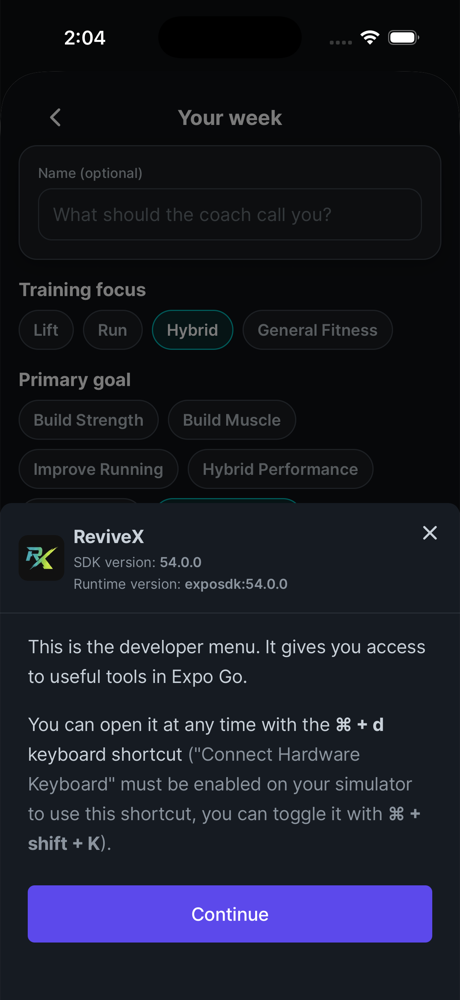
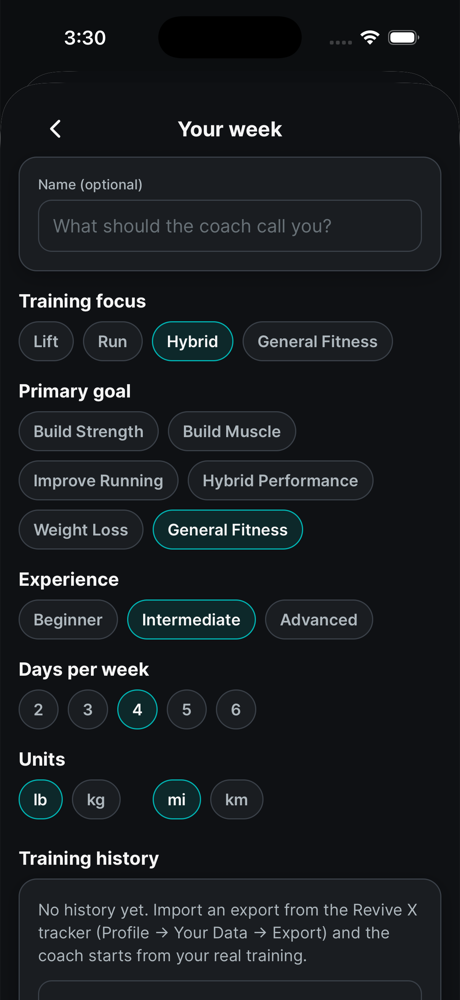
Mac run report
Third run, 2026-10-13: step 1 checks pass with the expected counts,
Direction A opens in Expo Go without the NitroModules error, and the
Direction B screenshots show the full screens.

diff --git a/docs/mac-run-report.md b/docs/mac-run-report.md
@@ -750,3 +750,164 @@ All six images were visually inspected. Direction B font/layout checks are limit
 No real Supabase test accounts were created. The two passing mock sync tests used only the local stand-in. Supabase credentials remain requested; phone testing is explicitly on hold.
 
 All verification servers stopped; listener check found nothing on ports 8081, 8082, 4311, 4312, or 54329. Expo-generated app-level `.gitignore` files were removed only in the new clone after confirming they contained solely the generated `expo-env.d.ts` block already covered by the root ignore file. The Desktop clone was not cleaned or modified. Only this report and screenshots are included in the report commit.
+
+
+## Third run — 2026-10-13
+
+Clone: `/Users/geo/Developer/revivex-app`, branch `claude/two-directions`, tested commit `b15328b9b895182c285d0db4456d9c33feaa1cfc`. Run by Claude Code on the Mac mini in a Remote Control session. The owner asked for steps 0 to 2, left step 3 to the cloud session and held step 4.
+
+Environment: macOS 26.6.2 (25G83), Node v26.4.0, npm 11.17.0, Xcode 26.6 (17F113), iPhone 17 simulator on iOS 26.5 with Expo Go 54.0.7 (installed by hand in run 2). The Mac's screen was locked for the whole run. No code changes, dependency upgrades, EAS builds or pull requests.
+
+### Outcome
+
+- Every step 1 check passed with the expected counts.
+- Direction A opens in Expo Go with no red error screen. The NitroModules error from run 2 is gone (fix `a18574f`).
+- Direction B's Today, Check-in and Settings screenshots show the full screens this time. Expo Go's tutorial still covers the lower half of the screen on a normal open; a launch argument kept it away (see "Expo Go tutorial").
+- One environment failure: `expo start --ios` exits about two minutes after it opens the app, because a System Events query times out while the Mac is locked. The app has loaded by then. Starting the server without `--ios` and opening the app with `xcrun simctl openurl` avoids it.
+
+### Results
+
+| Step | Command | Result | Notes |
+| --- | --- | --- | --- |
+| 0 | `git status --short`; `git pull --ff-only origin claude/two-directions` | pass | Clean tree; already up to date at `b15328b`. |
+| 0 | `watchman watch-del-all`; `node --version` | pass | Watch on this clone removed; Node v26.4.0. |
+| 1 | `npm ci` | pass | 808 packages added; audit reports 48 vulnerabilities (17 moderate, 30 high, 1 critical). No audit fix or upgrades. npm printed an install-script notice, quoted under "Notes for the cloud session". |
+| 1 | `npm run typecheck` | pass | All seven workspaces, no errors. |
+| 1 | `npm test` | pass | 20 (direction-a), 80 (backend), 67 (coach), 79 (core) and 19 (Strava functions) checks passed, 265 in all; 0 failed. |
+| 1 | `npm run test:db` | pass | 73 passed, 0 failed. |
+| 1 | `(cd apps/direction-a && npx expo-doctor)` | pass | 18/18. |
+| 1 | `(cd apps/direction-b && npx expo-doctor)` | pass | 18/18. |
+| 1 | `npx playwright install chromium` | skipped | Owner's instruction; Chrome fallback used. |
+| 1 | `PLAYWRIGHT_CHROMIUM="/Applications/Google Chrome.app/Contents/MacOS/Google Chrome" npm run e2e:full` | pass | 7 passed, 2 live tests skipped. Both web exports built. |
+| 1 | `PLAYWRIGHT_CHROMIUM="/Applications/Google Chrome.app/Contents/MacOS/Google Chrome" npm run e2e:mock` | pass | 2 passed against the local stand-in. |
+| 1 | `(cd apps/direction-a && npx expo export --platform ios --output-dir /tmp/revivex-export-a)` | pass | Bundled; 6.15 MB Hermes bundle. |
+| 1 | `(cd apps/direction-b && npx expo export --platform ios --output-dir /tmp/revivex-export-b)` | pass | Bundled; 4.15 MB Hermes bundle. |
+| 2 | `xcrun simctl list devices available` | pass | iPhone 17 already booted with Expo Go 54.0.7. Expo CLI did not try to download Expo Go. |
+| 2 | Direction A: `npx expo start --ios --port 8081 --clear`, app opens | pass | Bundled 1770 modules. Onboarding page 1 of 6 rendered, no red error screen, no `ERROR` line in the Metro log. |
+| 2 | Same command, server stays up | fail | Expo CLI exited with code 7 about two minutes later on an `osascript` timeout. Environment, not app code. Details below. |
+| 2 | Direction A again: `npx expo start --port 8081 --clear`, Expo Go relaunched with the tutorial argument, `xcrun simctl openurl booted "exp://127.0.0.1:8081"` | pass | Second launch, also clean: onboarding with no red error screen and no tutorial; no errors in the Metro log. |
+| 2 | Direction B: `npx expo start --port 8082 --clear`, then `xcrun simctl openurl booted "exp://127.0.0.1:8082"` | pass | Started without `--ios` because of the failure above. Bundled 1589 modules; no errors in the Metro log. |
+| 2 | Direction B Today, Check-in and Settings screenshots | pass | Full screens visible, nothing wrong found. Checked as first rendered only; no tapping or scrolling. |
+| 3 | `npm run e2e:live` | skipped | Owner's instruction; the cloud session runs it. No `.env.local` files written. |
+| 4 | Phone session | skipped | Held until the owner asks. No tunnel started. |
+
+### Expo Doctor output (verbatim)
+
+Direction A: `(cd apps/direction-a && npx expo-doctor)`
+
+```text
+Running 18 checks on your project...
+18/18 checks passed. No issues detected!
+```
+
+Direction B: `(cd apps/direction-b && npx expo-doctor)`
+
+```text
+Running 18 checks on your project...
+18/18 checks passed. No issues detected!
+```
+
+### Failure details and fallbacks
+
+Command from `apps/direction-a`: `npx expo start --ios --port 8081 --clear`. Exit code 7. Complete output, leaving out seven pairs of `NO_COLOR` warnings from Metro's workers:
+
+```text
+Starting project at /Users/geo/Developer/revivex-app/apps/direction-a
+Starting Metro Bundler
+warning: Bundler cache is empty, rebuilding (this may take a minute)
+› Opening exp://192.168.1.209:8081 on iPhone 17
+Waiting on http://localhost:8081
+Logs for your project will appear below.
+iOS node_modules/expo-router/entry.js ▓▓▓▓▓▓▓▓▓▓▓▓▓░░░ 85.4% (1546/1673)
+iOS Bundled 4591ms node_modules/expo-router/entry.js (1770 modules)
+/Users/geo/Developer/revivex-app/node_modules/expo/node_modules/@expo/cli/build/src/utils/errors.js:130
+    throw error;
+    ^
+
+Error: osascript -e tell app "System Events" to count processes whose name is "Simulator" exited with non-zero code: 1
+    at ChildProcess.completionListener (/Users/geo/Developer/revivex-app/node_modules/@expo/spawn-async/src/spawnAsync.ts:167:13)
+    at Object.onceWrapper (node:events:631:12)
+    at ChildProcess.emit (node:events:509:20)
+    at maybeClose (node:internal/child_process:1125:16)
+    at Socket.<anonymous> (node:internal/child_process:497:11)
+    at Socket.emit (node:events:509:20)
+    at Pipe.<anonymous> (node:net:355:12)
+    ...
+    at spawnAsync (/Users/geo/Developer/revivex-app/node_modules/@expo/spawn-async/src/spawnAsync.ts:39:21)
+    at osascriptSpawnAsync (/Users/geo/Developer/revivex-app/node_modules/@expo/osascript/src/index.ts:36:26)
+    at Object.execAsync (/Users/geo/Developer/revivex-app/node_modules/@expo/osascript/src/index.ts:206:17)
+    at isSimulatorAppRunningAsync (/Users/geo/Developer/revivex-app/node_modules/expo/node_modules/@expo/cli/src/start/platforms/ios/ensureSimulatorAppRunning.ts:50:23)
+    at ensureSimulatorAppRunningAsync (/Users/geo/Developer/revivex-app/node_modules/expo/node_modules/@expo/cli/src/start/platforms/ios/ensureSimulatorAppRunning.ts:18:13)
+    at AppleDeviceManager.activateWindowAsync (/Users/geo/Developer/revivex-app/node_modules/expo/node_modules/@expo/cli/src/start/platforms/ios/AppleDeviceManager.ts:212:41)
+    at ApplePlatformManager.openProjectInExpoGoAsync (/Users/geo/Developer/revivex-app/node_modules/expo/node_modules/@expo/cli/src/start/platforms/PlatformManager.ts:120:19)
+    at async Promise.allSettled (index 1)
+    at openPlatformsAsync (/Users/geo/Developer/revivex-app/node_modules/expo/node_modules/@expo/cli/src/start/server/openPlatforms.ts:10:19)
+    at startAsync (/Users/geo/Developer/revivex-app/node_modules/expo/node_modules/@expo/cli/src/start/startAsync.ts:114:3) {
+  stdout: [Getter],
+  stderr: [Getter],
+  output: [Getter],
+  pid: 1684,
+  status: 1,
+  signal: null
+}
+
+Node.js v26.4.0
+```
+
+The app had already loaded when this happened: the screenshot `a-first-launch.png` was taken before the exit. The stack is Expo CLI's step that brings the Simulator window to the front (`activateWindowAsync`), not ReviveX code. Run 2 ended Direction A's server with the same stack.
+
+What was tried:
+
+1. The same query by hand, `osascript -e 'tell app "System Events" to count processes whose name is "Simulator"'`, failed after 120 seconds with `28:69: execution error: System Events got an error: AppleEvent timed out. (-1712)`.
+2. `ioreg -n Root -d1 -a` reported `CGSSessionScreenIsLocked` as true. The run was not repeated with the Mac unlocked, so an unanswered Automation permission prompt for System Events is also possible.
+3. Fallback used for the rest of step 2: start the server without `--ios`, then open the app with `xcrun simctl openurl booted "exp://127.0.0.1:<port>"`. Nothing calls `osascript` and the server stays up.
+
+### Expo Go tutorial
+
+On a normal open, Expo Go's tutorial ("This is the developer menu", with a Continue button) covers the lower half of the screen and dims the rest. It appeared on Direction A's first launch (`a-first-launch.png`) and on Direction B's first open in this run. Claude Code has no way to tap the simulator, and the Mac was locked, so Continue could not be pressed.
+
+Launching Expo Go with one argument keeps the tutorial away for that launch:
+
+```bash
+xcrun simctl terminate booted host.exp.Exponent
+xcrun simctl launch booted host.exp.Exponent -EXHomeIsNuxFinishedDefaultsKey YES
+xcrun simctl openurl booted "exp://127.0.0.1:8082"
+```
+
+`EXHomeIsNuxFinishedDefaultsKey` is the preference Expo Go 54.0.7 keeps for a finished tutorial; the name was read from its binary with `strings`. As a launch argument it applies to that process only: afterwards the simulator's `host.exp.Exponent.plist` still held no such key. `a-onboarding.png` and the three Direction B screenshots were taken this way. Whether this goes into runbook step 2 is the cloud session's call.
+
+### Screenshot review
+
+`a-onboarding.png`, `b-today.png`, `b-checkin.png` and `b-settings.png` use the runbook's fixed names, so they replace the run 2 files. The run 2 versions are in commit `83ccec3`, and the second run's descriptions above refer to those older images. `sips -Z 1000` was run on this run's five files only, which leaves the two older screenshots byte-identical.
+
+- [a-first-launch.png](mac-run/a-first-launch.png): Direction A straight after the runbook's `--ios` command. Onboarding page 1 of 6 behind the Expo Go tutorial; no red error screen.
+- [a-onboarding.png](mac-run/a-onboarding.png): Direction A onboarding page 1 of 6 without the tutorial. ReviveX wordmark, tagline, intro card and Continue button; no red error screen.
+- [b-today.png](mac-run/b-today.png): Direction B Today before setup. Header with the date and three icon buttons, then the "Tell the coach about your week" card with its Set up button.
+- [b-checkin.png](mac-run/b-checkin.png): Daily check-in. Sleep, soreness and energy choices, the readiness card at 50/100 with its explanation, and the "Build today's plan" button.
+- [b-settings.png](mac-run/b-settings.png): the `/settings` route, titled "Your week". Name field, training focus, primary goal, experience, days per week, units, and the top of the Training history card.
+- [a-nitromodules-error.png](mac-run/a-nitromodules-error.png) and [simulator-blocked.png](mac-run/simulator-blocked.png): unchanged from earlier runs.
+
+All five new images were inspected. Each has a dark background with teal and lime accents and text in Inter, the font the design system names. No missing text, clipped layout, light background or red error screen was found.
+
+Limits of this review: nothing could be tapped or scrolled, so each screen was checked only as it first rendered. In `b-settings.png` the Training history card runs past the bottom edge, which is the scroll position and not a clipped layout. The check-in opened from its deep link while Today still showed the Set up card; what "Build today's plan" does before setup was not tested.
+
+### Notes for the cloud session
+
+`npm ci` printed the notice below. Nothing was approved, and every check passed.
+
+```text
+npm warn allow-scripts 3 packages have install scripts not yet covered by allowScripts:
+npm warn allow-scripts   esbuild@0.28.2 (postinstall: node install.js)
+npm warn allow-scripts   fsevents@2.3.3 (install: (install scripts present))
+npm warn allow-scripts   fsevents@2.3.2 (install: (install scripts present))
+npm warn allow-scripts
+npm warn allow-scripts Run `npm approve-scripts --allow-scripts-pending` to review, or `npm approve-scripts <pkg>` to allow.
+```
+
+`expo start` again created an untracked `.gitignore` in each app folder, holding only Expo's generated `expo-env.d.ts` block. Both were removed, as in run 2, so the next run's clean-tree check passes; the root `.gitignore` already ignores `expo-env.d.ts`. A committed app-level `.gitignore` with that line would stop them coming back.
+
+### Accounts, phone session, and cleanup
+
+No Supabase test accounts were created: `e2e:live` did not run here, and `e2e:mock` uses the local stand-in. The phone session has not started.
+
+Both dev servers are stopped, and nothing listens on ports 8081, 8082, 4311, 4312 or 54329. Expo Go was closed in the simulator; the simulator itself was left booted, as it was found. The `caffeinate -dims -t 7200` started for step 2 was stopped. Only this report and the five screenshots are in the report commit.
